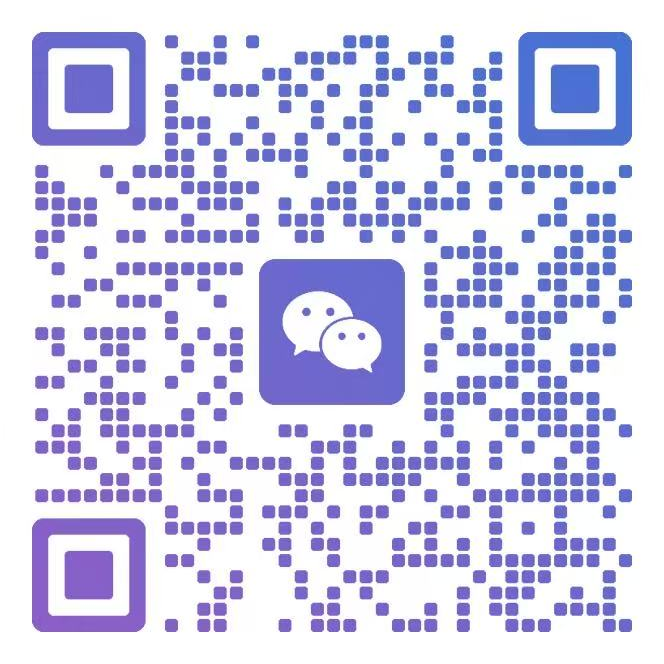
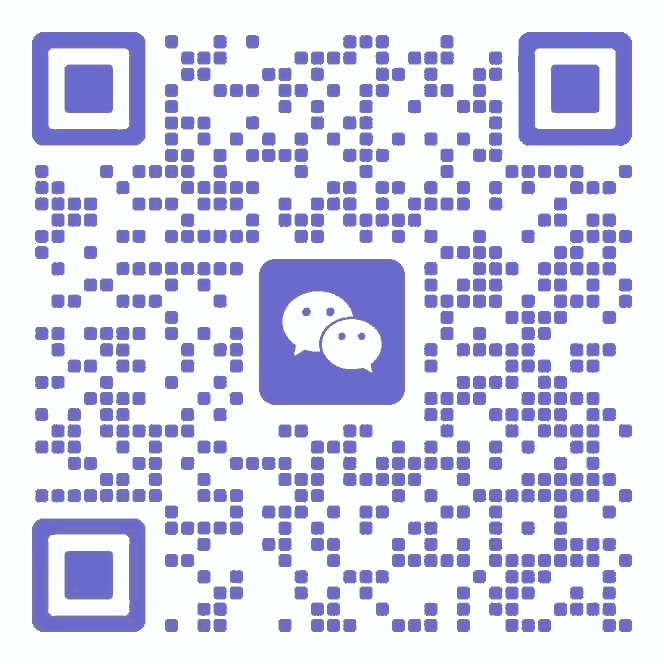
perf(workspace): 图片转 WebP、二维码瘦身、重页面改悬停预取
- 新增 scripts/generate-webp-images.mjs：把 proposal/photos（含 scenes）与
  tool-covers 的 JPG 生成同名 WebP（最长边 1600、q80、去元数据），保留原 JPG。
- 模板主题/场景/落地页/工具卡全部改指向 WebP；场景上传按扩展名识别 mimetype。
- wechat-qr.png 转 4 色调色板 PNG（664×664 不变，513KB→16KB）。
- 新增 HoverPrefetchLink：关闭 next/link 视口预取，改为悬停/聚焦时手动
  router.prefetch（300ms 节流、同 URL 只预取一次），用于模板卡与工具卡。

diff --git a/src/plugins/proposal/deck/themes.ts b/src/plugins/proposal/deck/themes.ts
@@ -304,7 +304,7 @@ export const DECK_THEMES: Record<DeckThemeId, DeckTheme> = {
     headline: '让家，懂你的生活。',
     tagline: 'RESIDENTIAL INTELLIGENCE',
     coverTagline: 'A HOME THAT UNDERSTANDS YOU',
-    coverPhoto: '/proposal/photos/cover-qixu.jpg',
+    coverPhoto: '/proposal/photos/cover-qixu.webp',
     photoNote: '氛围意向图 · 生活场景示意，非项目实景',
   },
   noir: {
@@ -344,7 +344,7 @@ export const DECK_THEMES: Record<DeckThemeId, DeckTheme> = {
     headline: '静享不凡，智在无声。',
     tagline: 'PRIVATE RESIDENCE',
     coverTagline: 'PRIVATE RESIDENCE · SMART LIVING',
-    coverPhoto: '/proposal/photos/cover-noir.jpg',
+    coverPhoto: '/proposal/photos/cover-noir.webp',
     photoNote: '氛围意向图 · 非项目实景',
   },
   grove: {
@@ -384,7 +384,7 @@ export const DECK_THEMES: Record<DeckThemeId, DeckTheme> = {
     headline: '让家，回到自然的节奏。',
     tagline: 'NATURAL LIVING',
     coverTagline: 'LIVING WITH NATURE',
-    coverPhoto: '/proposal/photos/cover-grove.jpg',
+    coverPhoto: '/proposal/photos/cover-grove.webp',
     photoNote: '氛围意向图 · 非项目实景',
   },
   azure: {
@@ -424,7 +424,7 @@ export const DECK_THEMES: Record<DeckThemeId, DeckTheme> = {
     headline: '清爽有序，一切刚刚好。',
     tagline: 'MODERN LIVING',
     coverTagline: 'CLEAR · CALM · CONNECTED',
-    coverPhoto: '/proposal/photos/cover-azure.jpg',
+    coverPhoto: '/proposal/photos/cover-azure.webp',
     photoNote: '氛围意向图 · 非项目实景',
   },
   terra: {
@@ -445,7 +445,7 @@ export const DECK_THEMES: Record<DeckThemeId, DeckTheme> = {
     headline: '把时光的温度，留在家里。',
     tagline: 'TIMELESS LIVING',
     coverTagline: 'A HOME WITH CHARACTER',
-    coverPhoto: '/proposal/photos/dining.jpg',
+    coverPhoto: '/proposal/photos/dining.webp',
     photoNote: '氛围意向图 · 非项目实景',
   },
   mono: {
@@ -485,7 +485,7 @@ export const DECK_THEMES: Record<DeckThemeId, DeckTheme> = {
     headline: '少即是多，智能本应安静。',
     tagline: 'ESSENTIAL',
     coverTagline: 'LESS BUT BETTER',
-    coverPhoto: '/proposal/photos/study.jpg',
+    coverPhoto: '/proposal/photos/study.webp',
     photoNote: '氛围意向图 · 非项目实景',
   },
   dawn: {
@@ -525,7 +525,7 @@ export const DECK_THEMES: Record<DeckThemeId, DeckTheme> = {
     headline: '每一个清晨，都被温柔唤醒。',
     tagline: 'WARM HOME',
     coverTagline: 'GOOD MORNING, HOME',
-    coverPhoto: '/proposal/photos/cover-dawn.jpg',
+    coverPhoto: '/proposal/photos/cover-dawn.webp',
     photoNote: '氛围意向图 · 非项目实景',
   },
   jade: {
@@ -577,7 +577,7 @@ export const DECK_THEMES: Record<DeckThemeId, DeckTheme> = {
     headline: '雅致如瓷，静享东方。',
     tagline: 'ORIENTAL LIVING',
     coverTagline: 'ORIENTAL SERENITY',
-    coverPhoto: '/proposal/photos/cover-jade.jpg',
+    coverPhoto: '/proposal/photos/cover-jade.webp',
     photoNote: '氛围意向图 · 非项目实景',
   },
   linen: {
@@ -599,7 +599,7 @@ export const DECK_THEMES: Record<DeckThemeId, DeckTheme> = {
     tagline: 'QUIET EVERYDAY',
     coverTagline: 'LIGHT, SPACE AND EVERYDAY LIFE',
     // 原来复用了 cover-qixu.jpg，和海盐蓝灰的拱窗封面对不上，也和「栖序雅致」撞图。
-    coverPhoto: '/proposal/photos/living.jpg',
+    coverPhoto: '/proposal/photos/living.webp',
     photoNote: '氛围意向图 · 非项目实景',
   },
   slate: {
@@ -621,7 +621,7 @@ export const DECK_THEMES: Record<DeckThemeId, DeckTheme> = {
     tagline: 'SPACES IN ORDER',
     coverTagline: 'RESIDENTIAL DESIGN STUDY',
     // 原来复用了 study.jpg，和「素白极简」撞图；岩灰建筑需要更建筑感的画面。
-    coverPhoto: '/proposal/photos/stairs.jpg',
+    coverPhoto: '/proposal/photos/stairs.webp',
     photoNote: '氛围意向图 · 非项目实景',
   },
 }

diff --git a/src/plugins/proposal/preview.tsx b/src/plugins/proposal/preview.tsx
@@ -4,6 +4,9 @@
  * 缩略图就是真实方案的封面（同一套页面组件、同一份主题），模板代码或后台模板一改，缩略图自动跟着变，
  * 不需要人工截图；需要静态图片（小程序、分享卡片）时运行 scripts/generate-template-thumbnails.mjs 批量生成。
  */
+import fs from 'node:fs'
+import path from 'node:path'
+
 import { ScaledFrame } from '@/components/scaled-frame'
 import { ensureDemoTemplateProject } from '@/lib/demo-project'
 import { memoize } from '@/lib/memo-cache'
@@ -67,6 +70,17 @@ const today = () =>
     day: 'numeric',
   })
 
+/**
+ * 模板卡只用到约 300px 宽，没必要为它拉 1400px 的 deck 封面。
+ * 有同名的 720px 缩略图就用缩略图，没有（后台自定义封面等）仍用原图。
+ */
+function galleryPhoto(src: string) {
+  const match = /^\/proposal\/photos\/([^/]+)\.webp$/.exec(src)
+  if (!match) return src
+  const rel = `proposal/photos/thumbs/${match[1]}.webp`
+  return fs.existsSync(path.join(process.cwd(), 'public', rel)) ? `/${rel}` : src
+}
+
 /** 没有示例项目时的兜底缩略图：主题色板 + 封面照片 + 标语 */
 function SwatchThumb({ template }: { template: ProposalTemplateDef }) {
   const theme = templateTheme(template)
@@ -77,7 +91,12 @@ function SwatchThumb({ template }: { template: ProposalTemplateDef }) {
       style={{ background: c.paper, color: c.ink }}
     >
       {theme.cover !== 'type' && template.kind === 'owner' ? (
-        <img src={theme.coverPhoto} alt="" loading="lazy" className="h-3/5 w-full object-cover" />
+        <img
+          src={galleryPhoto(theme.coverPhoto)}
+          alt=""
+          loading="lazy"
+          className="h-3/5 w-full object-cover"
+        />
       ) : null}
       <div className="flex flex-1 flex-col justify-center gap-1 px-[6%]">
         <span className="text-[clamp(10px,2.2vw,18px)] font-semibold">

diff --git a/src/components/hover-prefetch-link.tsx b/src/components/hover-prefetch-link.tsx
@@ -1,0 +1,56 @@
+'use client'
+
+import Link from 'next/link'
+import { useRouter } from 'next/navigation'
+import { useCallback, useRef, type ComponentProps, type FocusEvent, type MouseEvent } from 'react'
+
+type HoverPrefetchLinkProps = Omit<ComponentProps<typeof Link>, 'href' | 'prefetch'> & {
+  href: string
+}
+
+/** 同一时刻内最多发起一次预取，避免扫过多张卡片时把链路打满。 */
+const PREFETCH_INTERVAL_MS = 300
+
+/**
+ * 只在鼠标移入 / 键盘聚焦时预取的路由链接。
+ *
+ * 默认 `next/link` 会在链接进入视口时预取整页 RSC。模板中心一屏十几张模板卡片，
+ * 每张详情页的 RSC 约 100KB，生产线路 ~2Mbps 时会被预取并发占满，表现为
+ * 「点了十几秒不跳」。这里关掉视口预取，改成用户真的把指针放上去、或 Tab 聚焦时
+ * 才预取，语义不变（还是 `<a href>`，可键盘操作、可读屏）。
+ */
+export function HoverPrefetchLink({
+  href,
+  onMouseEnter,
+  onFocus,
+  ...props
+}: HoverPrefetchLinkProps) {
+  const router = useRouter()
+  const prefetched = useRef(new Set<string>())
+  const lastPrefetchAt = useRef(0)
+
+  const prefetch = useCallback(() => {
+    if (prefetched.current.has(href)) return
+    const now = Date.now()
+    if (now - lastPrefetchAt.current < PREFETCH_INTERVAL_MS) return
+    lastPrefetchAt.current = now
+    prefetched.current.add(href)
+    router.prefetch(href)
+  }, [href, router])
+
+  return (
+    <Link
+      {...props}
+      href={href}
+      prefetch={false}
+      onMouseEnter={(event: MouseEvent<HTMLAnchorElement>) => {
+        prefetch()
+        onMouseEnter?.(event)
+      }}
+      onFocus={(event: FocusEvent<HTMLAnchorElement>) => {
+        prefetch()
+        onFocus?.(event)
+      }}
+    />
+  )
+}

diff --git a/src/lib/proposal-library.ts b/src/lib/proposal-library.ts
@@ -10,7 +10,7 @@ import { BUILTIN_PROPOSAL_TEMPLATES } from '@/plugins/proposal/templates'
  * 方案素材库（方案模板 + 场景库）的初始化：把代码里的内置模板与内置场景写入后台，变成可编辑的数据。
  * - 后台「方案模板」「场景库」列表页的「补齐内置…」按钮与 scripts/seed-proposal-library.ts 共用；
  * - 按标识（slug）判断，已存在的记录不会被覆盖；fill = true 时只补「适合客户 / 使用时机 / 外观特点」这类空字段；
- * - 场景图片从 public/proposal/photos/scenes/<slug>.jpg 上传到媒体库（读不到文件时用 origin 下载，再不行就不带图片，方案改用章节默认照片）。
+ * - 场景图片从 public/proposal/photos/scenes/<slug>.webp 上传到媒体库（读不到文件时用 origin 下载，再不行就不带图片，方案改用章节默认照片）。
  */
 
 export type LibraryStatus = {
@@ -182,8 +182,9 @@ async function sceneImage(
 ): Promise<string | null> {
   const rel = builtinUrl?.startsWith('/proposal/')
     ? builtinUrl.slice(1)
-    : `proposal/photos/scenes/${slug}.jpg`
-  const png = rel.endsWith('.png')
+    : `proposal/photos/scenes/${slug}.webp`
+  const ext = path.extname(rel).slice(1).toLowerCase()
+  const mimetype = ext === 'png' ? 'image/png' : ext === 'webp' ? 'image/webp' : 'image/jpeg'
   let data: Buffer | null = await fs
     .readFile(path.join(process.cwd(), 'public', rel))
     .catch(() => null)
@@ -197,8 +198,8 @@ async function sceneImage(
     data: { alt },
     file: {
       data,
-      mimetype: png ? 'image/png' : 'image/jpeg',
-      name: `scene-${slug}.${png ? 'png' : 'jpg'}`,
+      mimetype,
+      name: `scene-${slug}.${ext}`,
       size: data.length,
     },
     overrideAccess: true,

diff --git a/src/app/(frontend)/(workspace)/capabilities/tools/page-data.ts b/src/app/(frontend)/(workspace)/capabilities/tools/page-data.ts
@@ -19,7 +19,7 @@ export const FEATURED_TOOL_IDS = ['business-card', 'floor-plan-style'] as const
  * 而不是图标或色块；输出结果由底部标签与说明补足。
  */
 export type ToolCardMeta = {
-  /** 封面图路径：静态 public 资源，形如 `/tool-covers/xxx.jpg` */
+  /** 封面图路径：静态 public 资源，形如 `/tool-covers/xxx.webp` */
   cover: string
   /** 封面替代文本：中文描述画面内容，不作为文件名重复 */
   coverAlt: string
@@ -31,13 +31,13 @@ export type ToolCardMeta = {
 
 export const TOOL_CARD_META: Record<(typeof FEATURED_TOOL_IDS)[number], ToolCardMeta> = {
   'business-card': {
-    cover: '/tool-covers/business-card.jpg',
+    cover: '/tool-covers/business-card.webp',
     coverAlt: '繁梦空间名片正面成品示例，米白纸版上的工具名与版式排版',
     chip: '4 套版式 · 正反面',
     footer: 'PNG · 300dpi 导出',
   },
   'floor-plan-style': {
-    cover: '/tool-covers/floor-plan.jpg',
+    cover: '/tool-covers/floor-plan.webp',
     coverAlt: '平台自带的智能家居点位户型图示例：住宅平面上标注了灯具、AP、电动窗帘等点位',
     chip: '示例：智能家居点位户型图 · 10 套风格',
     footer: '上传户型图 → 家具彩平',

diff --git a/src/app/(frontend)/(workspace)/capabilities/tools/page.tsx b/src/app/(frontend)/(workspace)/capabilities/tools/page.tsx
@@ -1,8 +1,8 @@
 import Image from 'next/image'
-import Link from 'next/link'
 import { ArrowLeft, ArrowUpRight, Blocks } from 'lucide-react'
 
 import { EmptyState } from '@/components/empty-state'
+import { HoverPrefetchLink } from '@/components/hover-prefetch-link'
 import { PageHeader } from '@/components/page-header'
 import { Button } from '@astryxdesign/core/Button'
 import { appAuth } from '@/lib/app-auth'
@@ -36,7 +36,7 @@ export default async function PluginToolsPage() {
         {tools.map((tool) => {
           const meta = TOOL_CARD_META[tool.id as keyof typeof TOOL_CARD_META]
           return (
-            <Link
+            <HoverPrefetchLink
               key={tool.id}
               href={tool.href}
               className="group flex flex-col overflow-hidden rounded-2xl border border-border/70 bg-card shadow-xs transition duration-200 hover:border-border hover:shadow-md focus-visible:ring-2 focus-visible:ring-ring focus-visible:outline-none motion-safe:hover:-translate-y-0.5"
@@ -73,7 +73,7 @@ export default async function PluginToolsPage() {
                   </span>
                 </div>
               </div>
-            </Link>
+            </HoverPrefetchLink>
           )
         })}
       </div>

diff --git a/src/components/proposal-template-card.tsx b/src/components/proposal-template-card.tsx
@@ -1,6 +1,6 @@
-import Link from 'next/link'
 import { ArrowUpRight } from 'lucide-react'
 
+import { HoverPrefetchLink } from '@/components/hover-prefetch-link'
 import type { PickerTemplate } from '@/plugins/proposal/picker-data'
 import { Swatches } from '@/plugins/proposal/template-picker'
 import { cn } from '@/lib/utils'
@@ -16,7 +16,7 @@ export function TemplateCard({
   className?: string
 }) {
   return (
-    <Link
+    <HoverPrefetchLink
       href={`/templates/${t.value}`}
       className={cn(
         'group flex flex-col overflow-hidden rounded-[var(--radius-container)] border bg-card transition-[border-color,box-shadow,transform] hover:-translate-y-0.5 hover:border-foreground/20 hover:shadow-md focus-visible:ring-2 focus-visible:ring-ring focus-visible:outline-none',
@@ -64,6 +64,6 @@ export function TemplateCard({
           </span>
         </div>
       </div>
-    </Link>
+    </HoverPrefetchLink>
   )
 }

diff --git a/src/plugins/proposal/deck/pages/scenes.tsx b/src/plugins/proposal/deck/pages/scenes.tsx
@@ -70,7 +70,9 @@ function usesBuiltinPhoto(scene: ManagedScene) {
   return BUILTIN_SCENES.some(
     (builtin) =>
       path === builtin.image?.url ||
+      path === `/proposal/photos/scenes/${builtin.slug}.webp` ||
       path === `/proposal/photos/scenes/${builtin.slug}.jpg` ||
+      file === `scene-${builtin.slug}.webp` ||
       file === `scene-${builtin.slug}.jpg` ||
       file === `scene-${builtin.slug}.png`,
   )
@@ -171,7 +173,7 @@ export function ScenesPage({
                     src={
                       night?.url ??
                       scene.image?.url ??
-                      `/proposal/photos/${CHAPTER_PHOTO[scene.chapter] ?? 'home'}.jpg`
+                      `/proposal/photos/${CHAPTER_PHOTO[scene.chapter] ?? 'home'}.webp`
                     }
                     alt={night?.alt ?? scene.image?.alt ?? scene.name}
                     {...imgLoading(ctx)}

diff --git a/src/components/landing/proposal-showcase.tsx b/src/components/landing/proposal-showcase.tsx
@@ -1380,7 +1380,7 @@ function ZoneSlide({ data, theme, no }: { data: LandingShowcase; theme: DeckThem
       <div className="grid min-h-0 flex-1 grid-cols-12 gap-[28px] overflow-hidden">
         <div className="col-span-7 flex flex-col gap-[16px]">
           <div className="relative h-[440px] shrink-0 overflow-hidden rounded-(--deck-radius)">
-            <img src="/proposal/photos/living.jpg" alt="" className="size-full object-cover" />
+            <img src="/proposal/photos/living.webp" alt="" className="size-full object-cover" />
             <span className="doc-body absolute bottom-4 left-4 bg-white/90 px-3 py-1 text-[11px] text-[#252523]">
               {theme.photoNote}
             </span>

diff --git a/src/plugins/proposal/deck/model.ts b/src/plugins/proposal/deck/model.ts
@@ -118,7 +118,7 @@ const PHOTO_OF: Record<string, string> = {
   other: 'home',
 }
 /** 空间照片：氛围意向图（Unsplash 授权图片，存放在 public/proposal/photos），按房间类型选择 */
-export const photoOf = (areaType: string) => `/proposal/photos/${PHOTO_OF[areaType] ?? 'home'}.jpg`
+export const photoOf = (areaType: string) => `/proposal/photos/${PHOTO_OF[areaType] ?? 'home'}.webp`
 
 /** 房间类型 → 场景章节：进门（玄关客餐厅）、休息（卧室）、看护（厨卫阳台）、专注（书房影音） */
 const ZONE_OF: Record<string, ZoneKey> = {

diff --git a/src/lib/builtin-scenes.ts b/src/lib/builtin-scenes.ts
@@ -274,7 +274,7 @@ export const BUILTIN_SCENES: BuiltinScene[] = INPUTS.map(({ alt, ...s }) => {
     id: `builtin-${s.slug}`,
     image: night
       ? { url: night.url, alt: night.alt }
-      : { url: `/proposal/photos/scenes/${s.slug}.jpg`, alt },
+      : { url: `/proposal/photos/scenes/${s.slug}.webp`, alt },
   }
 })
 
